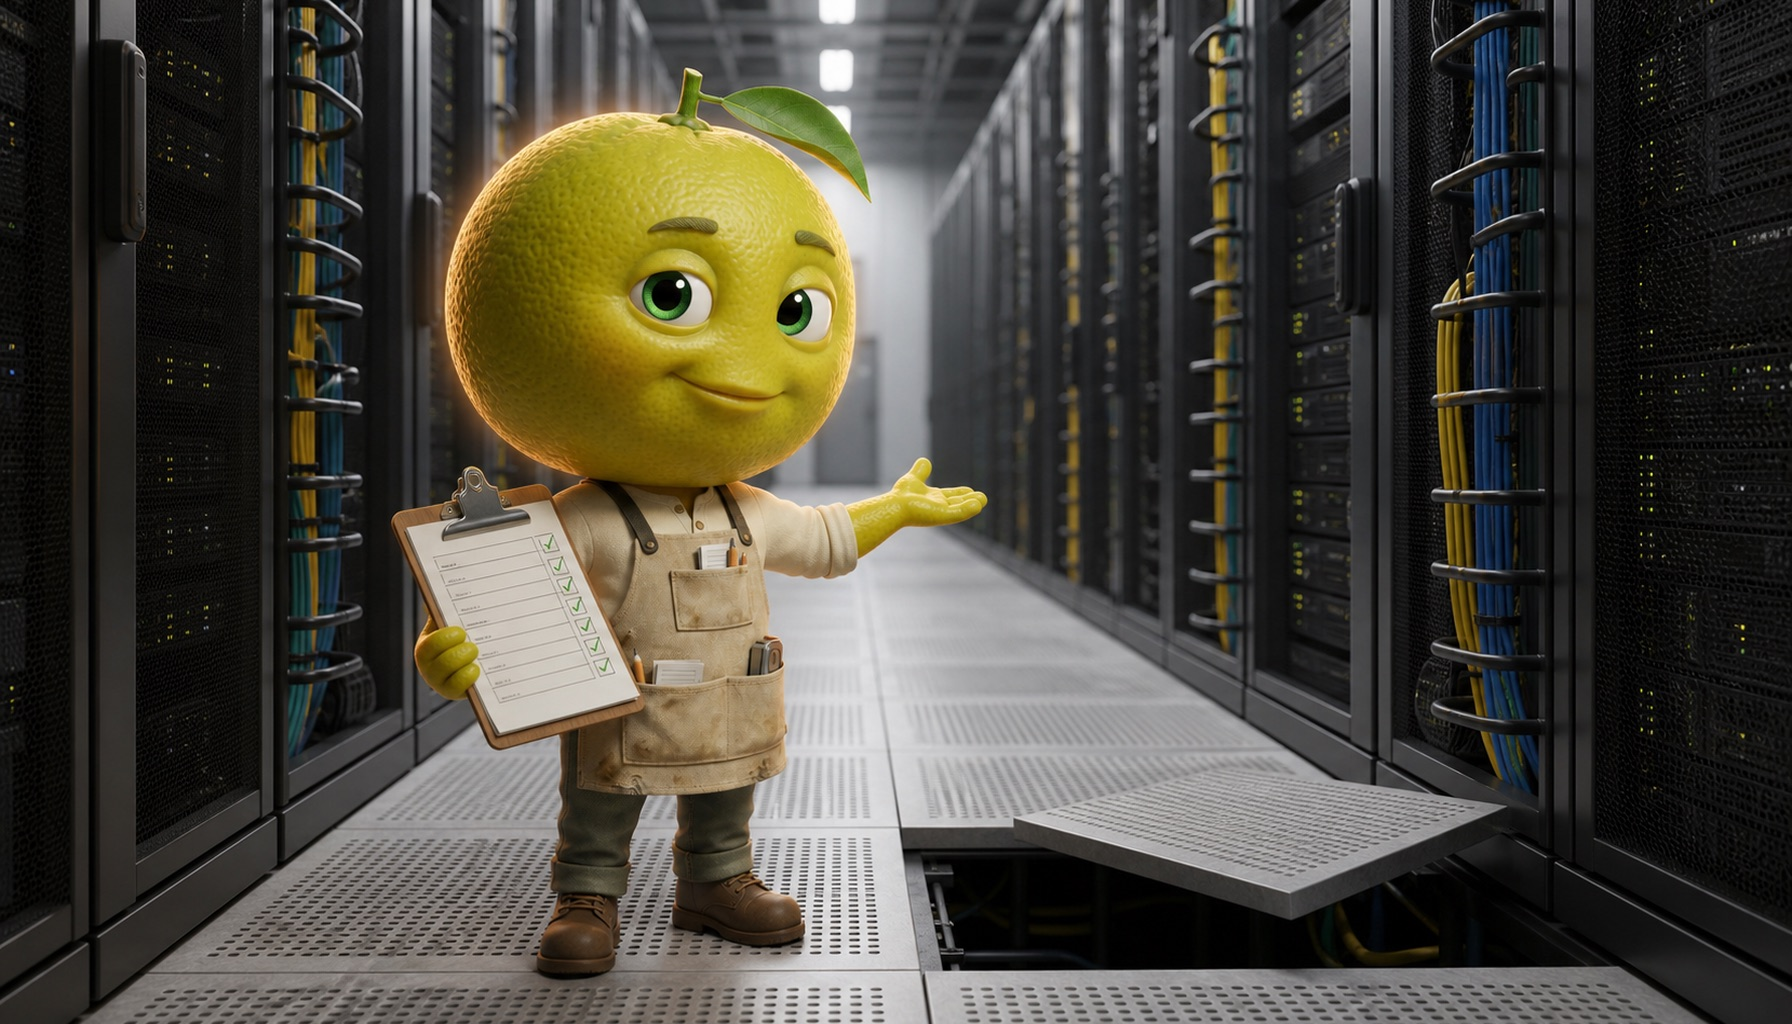
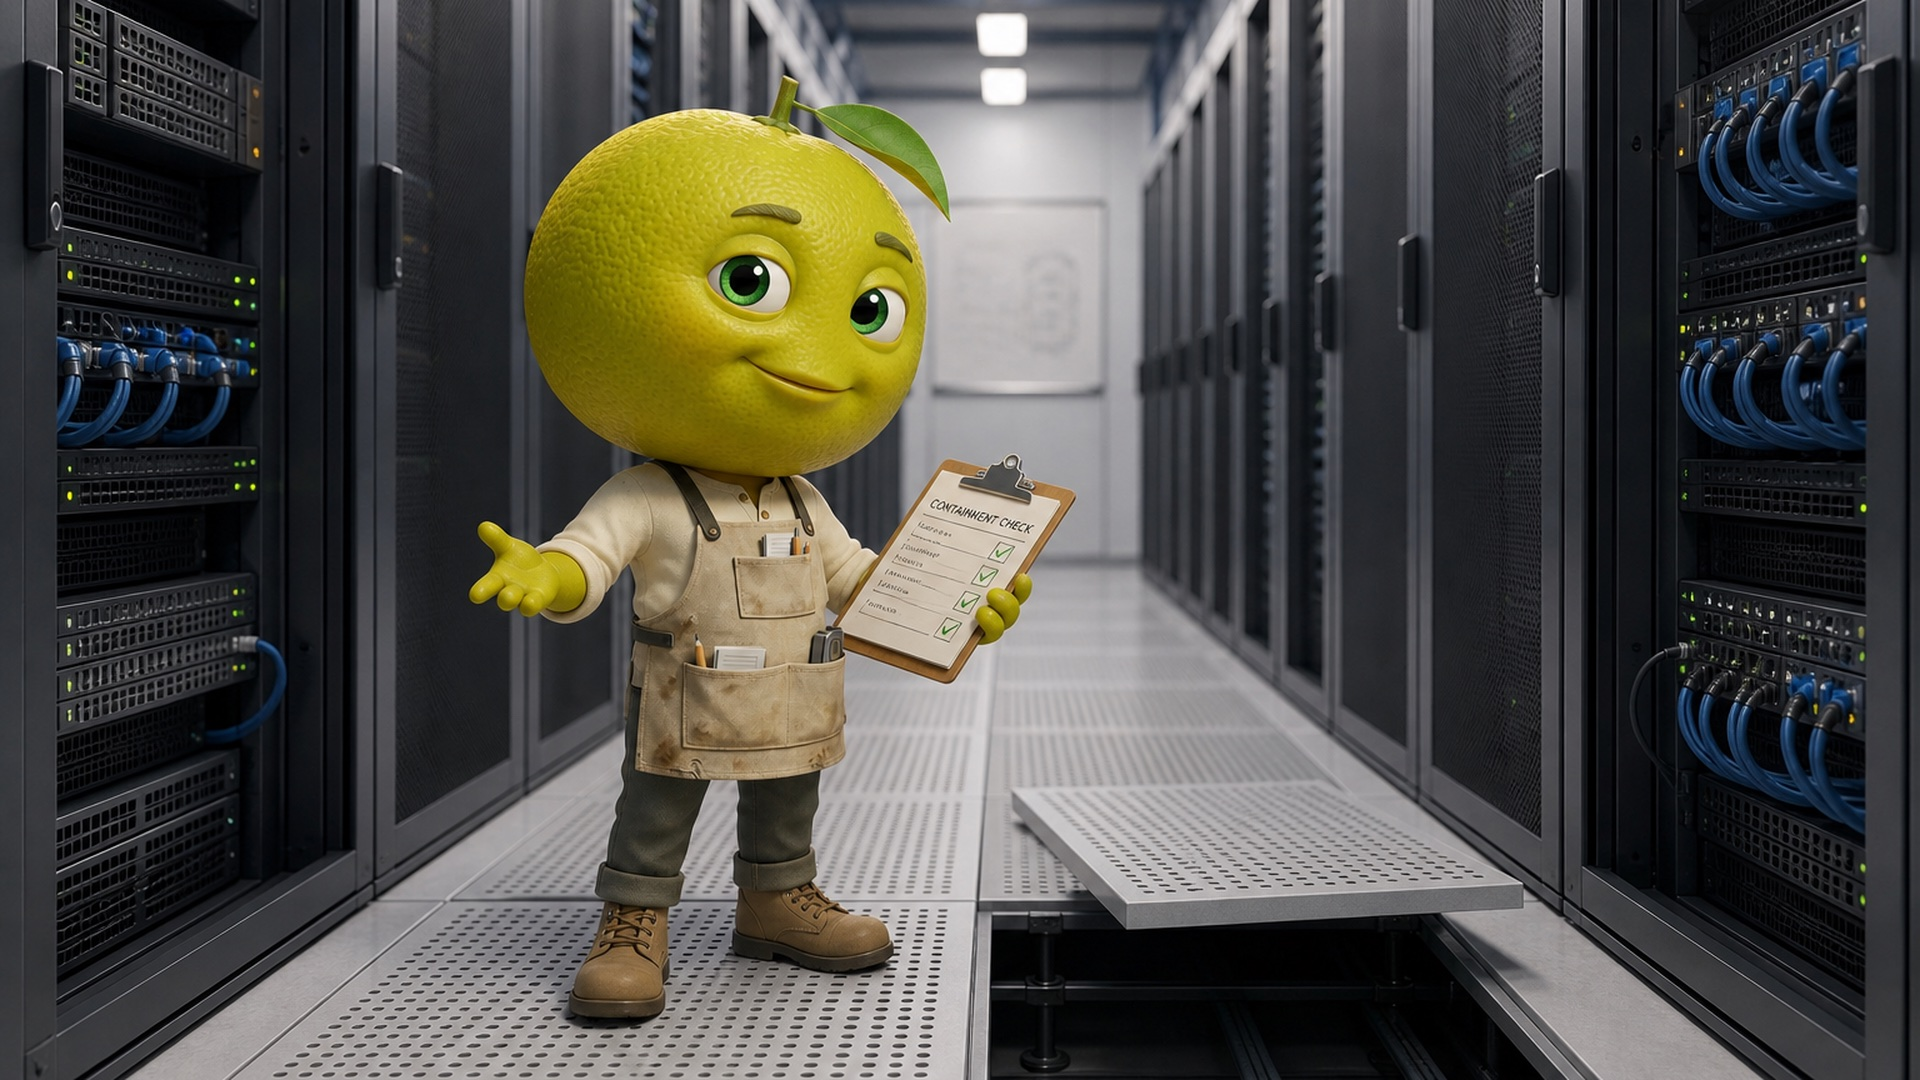
fix(visual): regenerate hero without the halo; forbid rim glow in the spec
The first hero had a glowing halo around Yuzu's head. That was a defect in my
prompt, not the model's: visual/HERO-PROMPT.md asked for "warm rim light on Yuzu
so the character stays warm against a cool room", and it was rendered literally
as a luminous outline. The canonical ZestStream Yuzu has flat, even, soft
lighting and no glow of any kind — the halo broke character continuity, which is
the one thing a mascot cannot lose.

Spec corrected so it cannot recur:
- The lighting section now demands soft, even, flat light matching the canonical
  reference, and states that warmth comes from the rind and apron rather than
  from any light source behind him.
- A note records the failed attempt and why, so the next person regenerating
  this does not reintroduce it.
- "Any halo, rim glow, backlight bloom, or luminous outline" is now an explicit
  entry in the Avoid list, alongside the certification and hi-vis prohibitions.

visual/hero.jpg regenerated via `codex exec` (ChatGPT auth) — 1920x1080 true
16:9, 528 KB, up from 1792x1024. Improvements beyond the fix: the clipboard now
legibly reads "CONTAINMENT CHECK" with tick marks (domain-appropriate, and
asserts no credential), and the lifted floor tile shows pedestals and underfloor
cabling rather than an ambiguous void.

Re-audited against every hard constraint: no halo or rim glow, no mortarboard,
no diploma, no "certified"/"CDCP" text anywhere in frame, no hard hat or hi-vis,
[…]

diff --git a/visual/HERO-PROMPT.md b/visual/HERO-PROMPT.md
@@ -32,9 +32,17 @@ of someone about to explain something, mid-gesture toward the racks.
   tile lifted a few inches to show the plenum beneath. Racks with cable
   management arms and neat structured cabling — believable, not a
   chrome-and-neon fantasy.
-- **Lighting:** cool white overhead task lighting from the aisle, warm rim light
-  on Yuzu so the character stays warm against a cool room. Shallow depth of
+- **Lighting:** cool white overhead task lighting from the aisle. Yuzu is lit
+  with **soft, even, flat light exactly as in the canonical reference** — no rim
+  light, no halo, no glow, no outline separation. He reads warm because of his
+  own colour, not because he is lit differently from the room. Shallow depth of
   field; racks fall off softly into the background.
+
+  > **Why this is called out:** the first generated attempt (2026-08-12) asked
+  > for a "warm rim light so the character stays warm against a cool room" and
+  > the model rendered a literal glowing halo around his head. The canonical
+  > Yuzu has no such effect. Warmth comes from the rind and the apron, never
+  > from a light source behind him.
 - **Palette:** cool greys and blues in the room; Yuzu's yellow-green and the tan
   apron are the only warm notes. This contrast is the point of the image.
 - **Clipboard:** the checklist reads as a **site inspection sheet** — legible
@@ -54,6 +62,9 @@ where a rendered Yuzu sits in a believable room.
 
 ## Avoid
 
+- **Any halo, rim glow, backlight bloom, or luminous outline around Yuzu.** He
+  is not lit from behind and does not emit light. Match the canonical reference's
+  flat, even lighting on the character
 - Blue-neon "cyber" data centre clichés, glowing floors, holograms
 - Hard hat or hi-vis vest — the apron is the character; safety costume breaks it
 - Any readable brand, logo, or vendor name on racks or hardware
